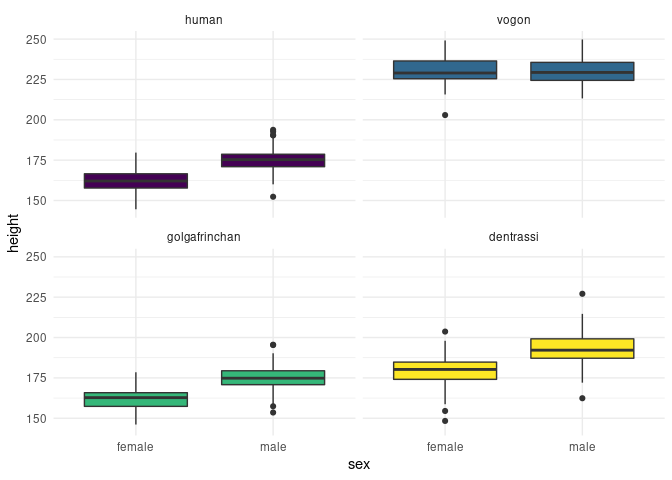
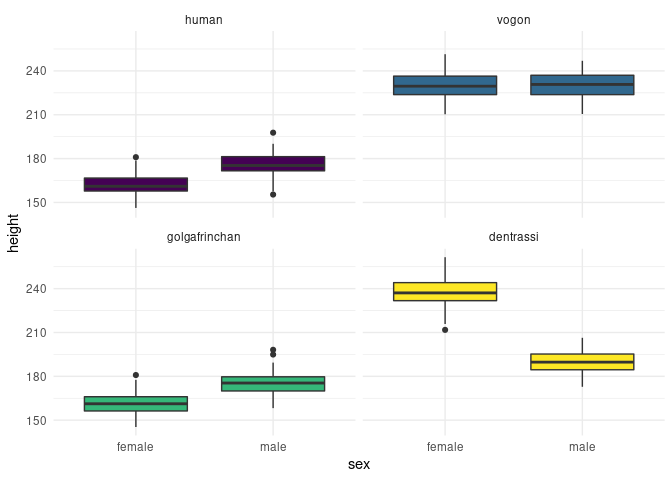
change dentrassi height and weight stats

diff --git a/README.md b/README.md
@@ -45,18 +45,18 @@ hitchr::infinite_improbability_drive(10) # generates a random sample of 10 indiv
 hitchr::iidr(10)
 ```
 
-| race      | sex    | age |   height |    weight |  IQ | occupation                        |
-|:----------|:-------|----:|---------:|----------:|----:|:----------------------------------|
-| vogon     | female | 116 | 237.8610 | 360.92057 | 124 | Constructor Fleet Commander       |
-| human     | female | 110 | 164.0031 |  65.83540 | 108 | Power-Line Installer and Mechanic |
-| human     | male   |  86 | 180.7487 |  89.31737 | 111 | Medical Transcriptionist          |
-| vogon     | other  | 100 | 232.2256 | 346.29791 | 123 | Database Administrator            |
-| human     | male   |  73 | 175.0993 |  84.10506 |  99 | Highway Patrol Pilot              |
-| dentrassi | male   |  68 | 206.0508 | 158.83543 | 116 | Sauce Chef                        |
-| vogon     | female |  67 | 247.5029 | 366.95365 | 122 | Airport Administrator Assistant   |
-| vogon     | male   | 115 | 227.9935 | 356.16089 | 115 | Clerk Clerk                       |
-| vogon     | other  | 123 | 228.3493 | 339.02701 | 121 | Student Admissions Administrator  |
-| vogon     | female |  45 | 224.4713 | 345.39481 | 131 | Historic Site Administrator       |
+| race          | sex    | age |   height |    weight |  IQ | occupation                      |
+|:--------------|:-------|----:|---------:|----------:|----:|:--------------------------------|
+| golgafrinchan | female |  75 | 160.7486 |  71.34171 |  79 | Lawyer                          |
+| golgafrinchan | male   |  88 | 180.5427 |  92.66954 |  96 | Telephone Sanitiser             |
+| dentrassi     | male   |  22 | 159.6553 | 144.90796 | 116 | Senior Chef                     |
+| vogon         | male   | 142 | 234.4148 | 364.43622 | 124 | Constructor Fleet Administrator |
+| dentrassi     | male   |  76 | 168.7561 | 139.27380 | 101 | Vegetable Chef                  |
+| golgafrinchan | female |  94 | 164.2331 |  66.20763 |  99 | Lawyer                          |
+| golgafrinchan | male   |  17 | 167.8532 |  70.56446 | 108 | Telephone Sanitiser             |
+| dentrassi     | female |  48 | 330.4523 | 206.29692 | 102 | Vegetable Chef                  |
+| human         | male   | 116 | 181.6672 |  93.58805 | 107 | Radio & TV Newscaster           |
+| vogon         | female | 132 | 234.9198 | 362.91644 | 128 | Cost Accountant                 |
 
 Missing values can be inserted symmetrically (symm = T): equal number of
 NAs in each column, or asymmetrically (symm = F): random distribution in
@@ -67,18 +67,18 @@ missing values (0 to 1).
 hitchr::iidr(10, na_prob = 0.2, symm = T)
 ```
 
-| race          | sex    | age |   height |    weight |  IQ | occupation                   |
-|:--------------|:-------|----:|---------:|----------:|----:|:-----------------------------|
-| human         | NA     | 117 | 163.6390 |  64.87463 | 101 | Model Maker                  |
-| vogon         | male   |  61 | 216.9804 | 333.82430 | 124 | Social Welfare Administrator |
-| NA            | female |  NA | 175.7280 |  79.64324 | 108 | Telephone Sanitiser          |
-| golgafrinchan | male   |  67 | 173.2247 |  81.89972 | 105 | Hairdresser                  |
-| dentrassi     | female |  72 | 196.5604 |        NA |  93 | NA                           |
-| NA            | male   |  74 |       NA |        NA |  NA | Fish Chef                    |
-| dentrassi     | male   |  NA | 208.3152 | 144.35097 | 116 | Line Cook                    |
-| human         | male   |  87 |       NA | 104.37433 | 101 | NA                           |
-| dentrassi     | NA     |  37 | 195.0003 | 109.93150 |  NA | Meat Chef                    |
-| dentrassi     | male   |  64 | 226.9801 | 159.64902 | 153 | Meat Chef                    |
+| race          | sex    | age |   height |    weight |  IQ | occupation                           |
+|:--------------|:-------|----:|---------:|----------:|----:|:-------------------------------------|
+| vogon         | male   |  NA | 236.4337 | 360.01617 | 117 | Education and Training Administrator |
+| dentrassi     | male   |  79 | 271.0564 | 164.04972 |  97 | Sauce Chef                           |
+| human         | female |  54 |       NA |        NA | 112 | Medical Secretary                    |
+| NA            | female |   1 | 159.6122 |        NA |  84 | Lawyer                               |
+| human         | NA     |  78 |       NA |  85.86503 |  NA | Fraud Investigator                   |
+| vogon         | female | 179 | 220.3853 | 343.59491 |  NA | NA                                   |
+| human         | NA     |  95 | 156.6267 |  56.92940 |  97 | Physician’s Office Nurse             |
+| golgafrinchan | female |  11 | 165.8895 |  58.64694 | 118 | NA                                   |
+| golgafrinchan | female |  85 | 161.0003 |  59.12484 | 105 | Hairdresser                          |
+| NA            | male   |  NA | 170.9844 |  81.70233 |  98 | Hairdresser                          |
 
 Races currently available:
 
